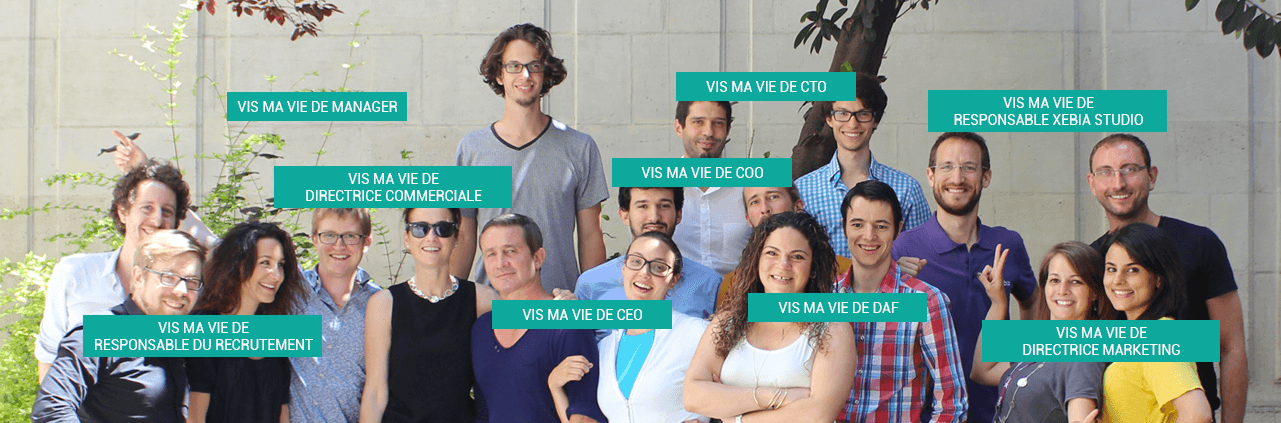
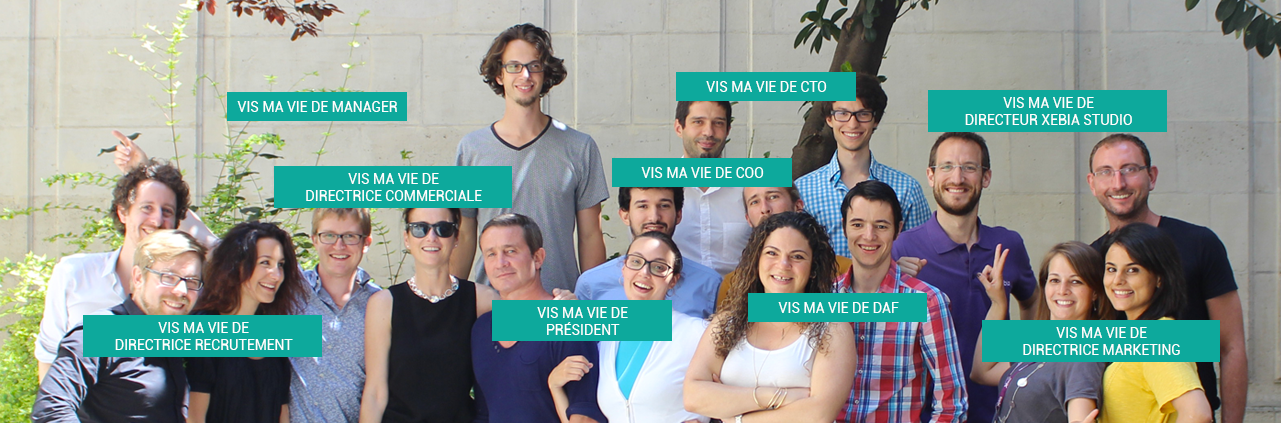
nouveau texte, rendre inaccessible les autres vismavie

Changed region(s): [[0.3747, 0.7069, 0.5308, 0.8298], [0.7494, 0.2459, 0.9055, 0.3073], [0.0625, 0.7991, 0.2498, 0.8298]]

diff --git a/app/details/ctrl.js b/app/details/ctrl.js
@@ -8,18 +8,60 @@ angular.module('app')
         $scope.changeData = function(id) {
 
 
-            if (id == 'CEO') {
+            if (id == 'Président') {
                 $scope.name = 'luc';
                 $scope.sourceImgBg = 'img/bg_ceo.png';
                 $scope.sourceImgBgMini = 'img/bg_ceo_560.png';
                 $scope.phraseConsulte = 'Phrase drole';
-                $scope.nomConsulte = 'Luc Legardeur, CEO';
+                $scope.nomConsulte = 'Luc Legardeur, Président';
                 $scope.expert = 'L’EXPERT';
                 $scope.apprenti = 'L’APPRENTIE';
                 $scope.phraseConsultant = 'C’est qui le patron ???';
                 $scope.nomConsultant = 'Laurène Vol, Consultante';
                 $scope.rond1 = 'img/laurene_vol.png';
-                $scope.quote1 = 'Journée enrichissante, passionante, beaucoup de moment clés. Participation à un comité de direction : très instructif';
+                $scope.quote1 = 'Journée enrichissante, passionante, beaucoup de moment clés. Participation à un comité de direction : très instructif. En conclusion : C’est pas moi le patron, et c’est très bien comme ça !';
+                $scope.plus1 = '- Le côté touche à tout';
+                $scope.plus2 = '- Apprendre aux Xebians qu’à apprendre d’eux';
+                $scope.plus3 = '';
+                $scope.moins1 = '- Peu de temps pour creuser un projet';
+                $scope.moins2 = '- Beaucoup de choses à gérer';
+                $scope.moins3 = '';
+                $scope.video = 'https://www.youtube.com/embed/2twefLKkW0o';
+
+            }
+
+            else if (id == 'CTO') {
+                $scope.name = 'pablo';
+                $scope.expert = 'L’EXPERT';
+                $scope.sourceImgBg = 'img/bg_cto.png';
+                $scope.sourceImgBgMini = 'img/bg_cto_560.png';
+                $scope.phraseConsulte = 'Troll en chef';
+                $scope.nomConsulte = 'Pablo Lopez, CTO';
+                $scope.apprenti = 'L’APPRENTI';
+                $scope.phraseConsultant = '50 kilos tout mouillé';
+                $scope.nomConsultant = 'Alexandre Hebert, Consultant';
+                $scope.rond1 = 'img/alexandre_hebert.png';
+                $scope.quote1 = 'Une journée haute en chaleur, ponctuée par de nombreux déplacements aux quatres coins du siège, et durant laquelle j’ai pu suivre partout un CTO très volubile qui n’a pas hésité à répondre à toutes mes questions, en me faisant par la même occasion découvrir son métier des caves au grenier : des difficultés qu’il rencontre au quotidien jusqu’aux aspects les plus passionnants ! C T Ouf ! Heureusement pour moi, vis ma vie ne veut pas dire "Prend ma place" ! Pfiou !';
+                $scope.plus1 = '- Variété des responsabilités';
+                $scope.plus2 = '- Variété des tâches';
+                $scope.plus3 = '- Force de proposition du CTO quant aux choix des missions qui pourraient intéresser les Xebians';
+                $scope.moins1 = '- La température ( pas celle de mon CTO, celle de l’air : vive la canicule ;) )';
+                $scope.moins2 = '- Les relances par mail';
+                $scope.video = 'https://www.youtube.com/embed/2twefLKkW0o';
+            }
+
+            else if (id == 'Dir. Xebia Studio') {
+                $scope.name = 'thibaud';
+                $scope.sourceImgBg = 'img/bg_studio.png';
+                $scope.sourceImgBgMini = 'img/bg_studio_560.png';
+                $scope.phraseConsulte = 'Le forfait, oui, mais seulement au ski !';
+                $scope.nomConsulte = 'Thibaud Cavin, Responsable Xebia Studio';
+                $scope.phraseConsultant = 'A grand, grand et demi ?';
+                $scope.expert = 'L’EXPERT';
+                $scope.apprenti = 'L’APPRENTI';
+                $scope.nomConsultant = 'Emmanuel Sciara, Coach Agile';
+                $scope.rond1 = 'img/emmanuel_sciara.png';
+                $scope.quote1 = 'Beaucoup de responsabilité, placement des consultant selon leur humeur, envie, très difficile, RESPECT MAN !';
                 $scope.plus1 = 'Plus';
                 $scope.plus2 = 'Plus';
                 $scope.plus3 = 'Plus';
@@ -30,24 +72,26 @@ angular.module('app')
 
             }
 
-            else if (id == 'CTO') {
-                $scope.name = 'pablo';
-                $scope.expert = 'L’EXPERT';
-                $scope.sourceImgBg = 'img/bg_cto.png';
-                $scope.sourceImgBgMini = 'img/bg_cto_560.png';
-                $scope.phraseConsulte = 'Hello je suis le CTO';
-                $scope.nomConsulte = 'Pablo Lopez, CTO';
+            else if (id == 'Dir. Recrutement') {
+                $scope.name = 'laetitia';
+                $scope.sourceImgBg = 'img/bg_recrutement.png';
+                $scope.sourceImgBgMini = 'img/bg_recrutement_560.png';
+                $scope.phraseConsulte = 'Une chasseuse sachant chasser…';
+                $scope.nomConsulte = 'Laetitia Janné, Responsable du recrutement';
+                $scope.phraseConsultant = 'La puissance de la funk !';
+                $scope.nomConsultant = 'Jeremy Vinai, Consultant';
+                $scope.expert = 'L’EXPERTE';
                 $scope.apprenti = 'L’APPRENTI';
-                $scope.phraseConsultant = '50 kilos tout mouillé';
-                $scope.nomConsultant = 'Alexandre Hebert, Consultant';
-                $scope.rond1 = 'img/alexandre_hebert.png';
-                $scope.quote1 = 'Une journée haute en chaleur, ponctuée par de nombreux déplacements aux quatres coins du siège, et durant laquelle j’ai pu suivre partout un CTO très volubile qui n’a pas hésité à répondre à toutes mes questions, en me faisant par la même occasion découvrir son métier des caves au grenier : des difficultés qu’il rencontre au quotidien jusqu’aux aspects les plus passionnants ! C T Ouf !';
-                $scope.plus1 = '- Variété des responsabilités';
-                $scope.plus2 = '- Variété des tâches';
-                $scope.plus3 = '- Force de proposition du CTO quant aux choix des missions qui pourraient intéresser les Xebians';
-                $scope.moins1 = '- La température ( pas celle de mon CTO, celle de l’air : vive la canicule ;) )';
-                $scope.moins2 = '- Les relances par mail';
+                $scope.rond1 = 'img/jeremy_vinai.png';
+                $scope.quote1 = '"Jeremy Vinai société Xebia bonjour." Une journée très agréable autour du metier de responsable recrutement où j’ai pu voir comment gérer la recherche de profils, gérer l’organisation de l’équipe recrutement, entretenir le contact avec les futurs potentiels recrutés et s’occuper des nouveaux Xebians et de leur bonne intégration.Beaucoup d’intéraction en interne comme avec l’exterieur !';
+                $scope.plus1 = 'Plus';
+                $scope.plus2 = 'Plus';
+                $scope.plus3 = 'Plus';
+                $scope.moins1 = 'Moins';
+                $scope.moins2 = 'Moins';
+                $scope.moins3 = 'Moins';
                 $scope.video = 'https://www.youtube.com/embed/2twefLKkW0o';
+
             }
 
             else if (id == 'Dir. Marketing') {
@@ -72,27 +116,6 @@ angular.module('app')
 
             }
 
-            else if (id == 'Responsable du Recrutement') {
-                $scope.name = 'laetitia';
-                $scope.sourceImgBg = 'img/bg_recrutement.png';
-                $scope.sourceImgBgMini = 'img/bg_recrutement_560.png';
-                $scope.phraseConsulte = 'Une chasseuse sachant chasser…';
-                $scope.nomConsulte = 'Laetitia Janné, Responsable du recrutement';
-                $scope.phraseConsultant = 'La puissance de la funk !';
-                $scope.nomConsultant = 'Jeremy Vinai, Consultant';
-                $scope.expert = 'L’EXPERTE';
-                $scope.apprenti = 'L’APPRENTI';
-                $scope.rond1 = 'img/jeremy_vinai.png';
-                $scope.quote1 = 'Je sais chasser tel un chasseur le dimanche matin dans sa campagne profonde... Mais attention au grand méchant loup qui rôde dans les bois.';
-                $scope.plus1 = 'Plus';
-                $scope.plus2 = 'Plus';
-                $scope.plus3 = 'Plus';
-                $scope.moins1 = 'Moins';
-                $scope.moins2 = 'Moins';
-                $scope.moins3 = 'Moins';
-                $scope.video = 'https://www.youtube.com/embed/2twefLKkW0o';
-
-            }
 
             else if (id == 'COO') {
                 $scope.name = 'christophe';
@@ -182,27 +205,6 @@ angular.module('app')
 
             }
 
-            else if (id == 'Responsable Xebia Studio') {
-                $scope.name = 'thibaud';
-                $scope.sourceImgBg = 'img/bg_studio.png';
-                $scope.sourceImgBgMini = 'img/bg_studio_560.png';
-                $scope.phraseConsulte = 'Le forfait, oui, mais seulement au ski !';
-                $scope.nomConsulte = 'Thibaud Cavin, Responsable Xebia Studio';
-                $scope.phraseConsultant = 'A grand, grand et demi ?';
-                $scope.expert = 'L’EXPERT';
-                $scope.apprenti = 'L’APPRENTI';
-                $scope.nomConsultant = 'Emmanuel Sciara, Coach Agile';
-                $scope.rond1 = 'img/emmanuel_sciara.png';
-                $scope.quote1 = 'Beaucoup de responsabilité, placement des consultant selon leur humeur, envie, très difficile, RESPECT MAN !';
-                $scope.plus1 = 'Plus';
-                $scope.plus2 = 'Plus';
-                $scope.plus3 = 'Plus';
-                $scope.moins1 = 'Moins';
-                $scope.moins2 = 'Moins';
-                $scope.moins3 = 'Moins';
-                $scope.video = 'https://www.youtube.com/embed/2twefLKkW0o';
-
-            }
 
         };
 

diff --git a/app/directive/episodes.html b/app/directive/episodes.html
@@ -34,8 +34,8 @@
                     Episodes
                 </a>
                 <md-menu-content width="4">
-                    <md-menu-item ng-repeat="item in ['CEO', 'CTO', 'Dir. Marketing', 'Responsable du Recrutement', 'COO', 'Manager', 'Dir. Commerciale', 'DAF', 'Responsable Xebia Studio']">
-                        <md-button href="#/details?id={{item}}">
+                    <md-menu-item ng-repeat="item in ['Président', 'CTO', 'Dir. Marketing', 'Dir. Recrutement', 'COO', 'Manager', 'Dir. Commerciale', 'DAF', 'Dir. Xebia Studio']">
+                        <md-button ng-disabled="item == 'CTO' || item == 'Dir. Marketing' || item == 'Dir. Recrutement' || item == 'COO' || item == 'Manager' || item == 'Dir. Commerciale' || item == 'DAF' || item == 'Dir. Xebia Studio'" href="#/details?id={{item}}">
                             <span md-menu-align-target>VMV de {{item}}</span></md-button>
                     </md-menu-item>
                 </md-menu-content>

diff --git a/app/details/details.sass b/app/details/details.sass
@@ -82,6 +82,7 @@ ul.social-video-share li
   .quote
     float: left
     width: 720px
+    margin-right: 70px
 
     ::before
       content: '"'
@@ -198,5 +199,25 @@ ul.social-video-share li
 .fa
   color: grey
 
+
+.voir_plus
+  border: 1px solid #06a99c
+  color: #06a99c !important
+  background-color: white !important
+  left: 60px
+  padding: 10px
+  top: 30px
+  border-radius: 4px
+  text-decoration: none
+  position: relative
+  transition: 0.2s all
+  -webkit-transition: 0.2s all
+  
+  a
+    text-decoration: none
+    
+  &:hover
+    background-color: #06a99c !important
+    color: white !important
 
 

diff --git a/app/directive/menu.html b/app/directive/menu.html
@@ -1,6 +1,6 @@
 <div class="autre_video center">
     <div class="video episode1">
-        <md-button ng-click="changeData('CEO')" class="md-raised md-primary md_button_video">Épisode 1 : VIS MA VIE DE CEO</md-button>
+        <md-button ng-click="changeData('Président')" class="md-raised md-primary md_button_video">Épisode 1 : VIS MA VIE DE PRÉSIDENT</md-button>
     </div>
     <div class="video episode2">
         <md-button ng-click="changeData('CTO')" ng-disabled="true" class="md-raised md-primary md_button_video disable">Épisode 2 : VIS MA VIE DE CTO</md-button>

diff --git a/app/details/tmpl.html b/app/details/tmpl.html
@@ -43,7 +43,10 @@
         </div>
         <div class="quote">
             <p>{{quote1}}<br/></p>
+
         </div>
+
+    <a href="http://blog.xebia.fr" target="_blank" class="md-raised md-primary voir_plus">Lire en entier</a>
 
 </div>
 
